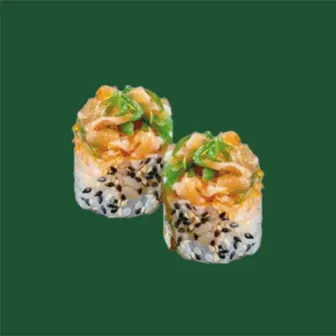
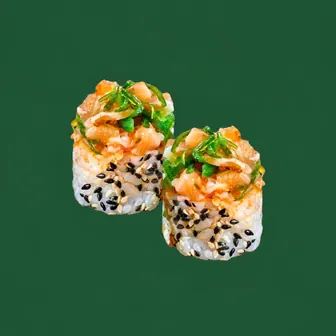
Update photo — Blossom Bali

Changed region(s): [[0.2083, 0.2381, 0.8036, 0.8036]]

diff --git a/src/data/dishImages.ts b/src/data/dishImages.ts
@@ -157,7 +157,7 @@ export const CLIENT_DISH_IMAGES: Record<string, string> = {
   "12117b00b9": "/menu-hd-onglet20/blossom-eby-roll.png",
   "cb9324ca52": "/menu-hd-onglet20/blossom-tokyo.png",
   "ace54559af": "/menu-hd-onglet20/blossom-saumon-braise.png",
-  "c435723d4c": "/menu-hd-onglet20/blossom-bali.png",
+  "c435723d4c": "/menu-hd-onglet20/blossom-bali.jpg",
   "4c6bec2d41": "/menu-hd-onglet20/blossom-bangkok.png",
   "e463b20218": "/menu-hd-onglet20/blossom-bonzai.jpg",
   "0433bbd53c": "/menu-hd-onglet20/blossom-mango-saumon.jpg",

diff --git a/src/data/yumloMenu.ts b/src/data/yumloMenu.ts
@@ -1185,7 +1185,7 @@ export const YUMLO_MENU = [
     "description": "Saumon mariné, surimi, avocat, cheese, sésame",
     "priceMAD": "54.00",
     "currency": "MAD",
-    "image": "/menu-hd-onglet20/blossom-bali.png"
+    "image": "/menu-hd-onglet20/blossom-bali.jpg"
   },
   {
     "id": "4c6bec2d41",
